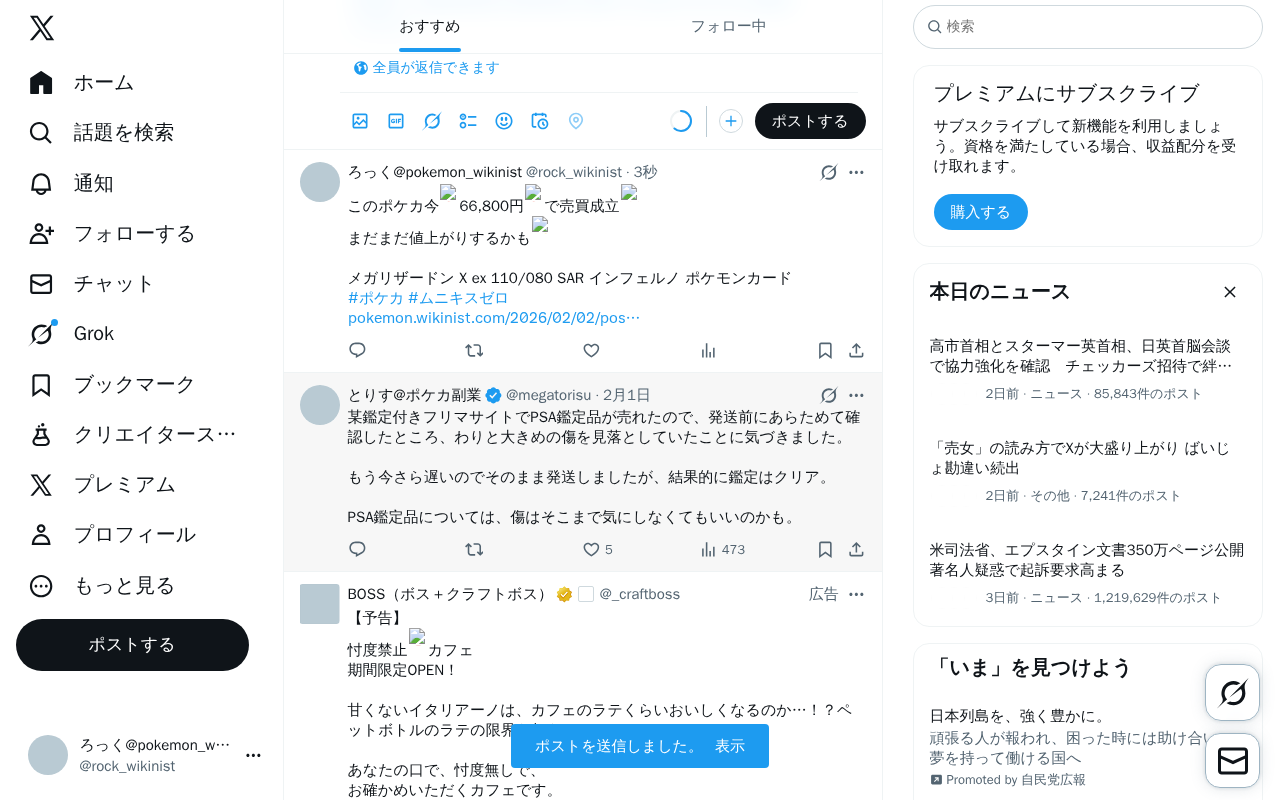
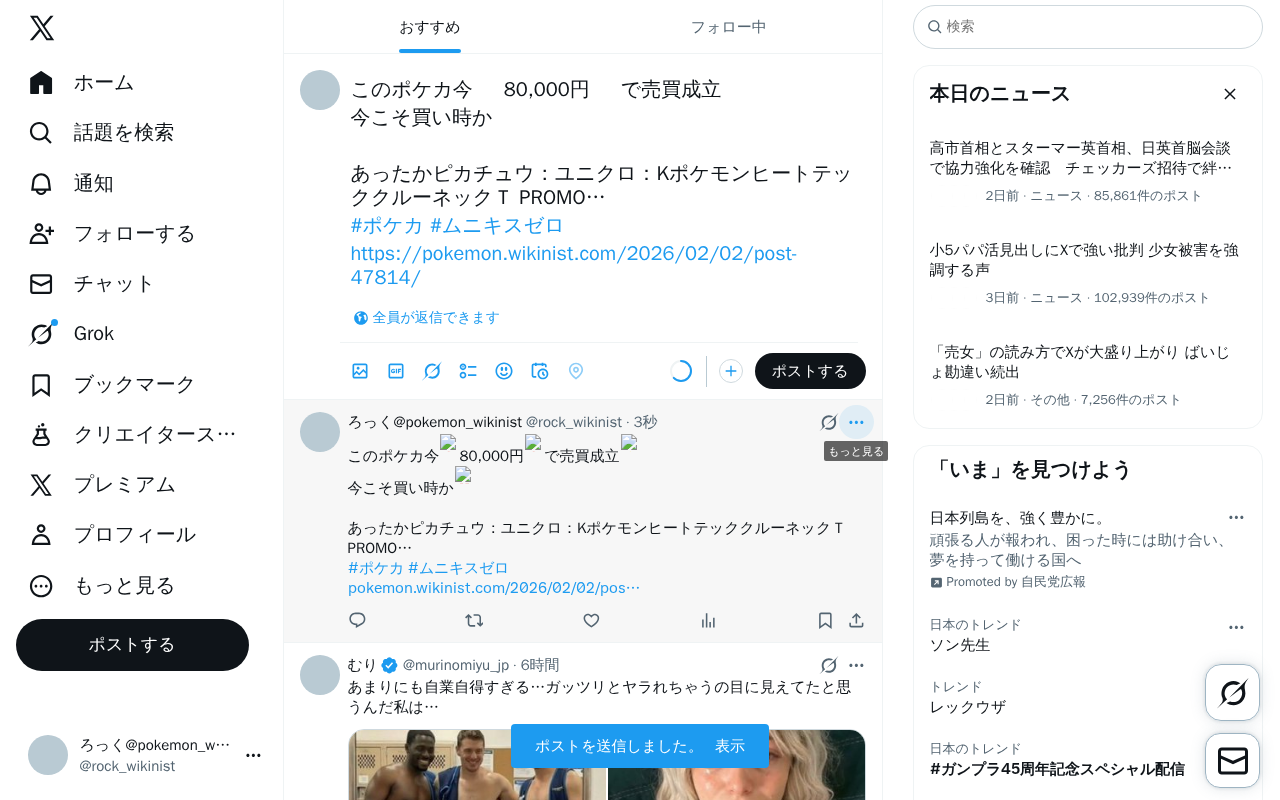
update system data

diff --git a/content/posts/test-pokemon-20260202-221335.md b/content/posts/test-pokemon-20260202-221335.md
@@ -1,0 +1,38 @@
+---
+title: "あったかピカチュウ：ユニクロ：KポケモンヒートテッククルーネックＴ PROMO…"
+date: 2026-02-02T22:13:35+09:00
+description: "🔥80,000円🔥 メルカリで「あったかピカチュウ：ユニクロ：KポケモンヒートテッククルーネックＴ PROMO…」が販売中！"
+amazon_url: "https://jp.mercari.com/item/m93169801969?afid=1391290753"
+robotsNoIndex: true
+categories: ["ポケモン"]
+tags: ["プロモ", "ピカチュウ", "5万円以上"]
+cover:
+  image: "https://static.mercdn.net/thumb/item/webp/m93169801969_1.jpg?1770036634"
+  hiddenInList: true
+  hiddenInSingle: true
+---
+
+<div class="image-and-buttons">
+    <div class="image-area" style="margin-bottom: 20px; text-align: center;">
+        <a href="https://jp.mercari.com/item/m93169801969?afid=1391290753" target="_blank" rel="nofollow sponsored noopener noreferrer">
+            <img src="https://static.mercdn.net/thumb/item/webp/m93169801969_1.jpg?1770036634" alt="80,000" style="max-width: 100%; border-radius: 8px; border: 1px solid #ddd;" />
+        </a>
+        <br><span style="font-size:1.5em;color:red;font-weight:bold;">🔥80,000円🔥</span>
+    </div>
+    <div class="link-buttons">
+        <a href="https://jp.mercari.com/item/m93169801969?afid=1391290753" target="_blank" rel="nofollow sponsored noopener noreferrer">
+            💎 商品状態を見る
+        </a>
+        <a href="https://jp.mercari.com/search?afid=1391290753&category_id=1289&keyword=%E3%81%82%E3%81%A3%E3%81%9F%E3%81%8B%E3%83%94%E3%82%AB%E3%83%81%E3%83%A5%E3%82%A6%EF%BC%9A%E3%83%A6%E3%83%8B%E3%82%AF%E3%83%AD%EF%BC%9AK%E3%83%9D%E3%82%B1%E3%83%A2%E3%83%B3%E3%83%92%E3%83%BC%E3%83%88%E3%83%86%E3%83%83%E3%82%AF%E3%82%AF%E3%83%AB%E3%83%BC%E3%83%8D%E3%83%83%E3%82%AF%EF%BC%B4%20PROMO%E2%80%A6" target="_blank" rel="nofollow sponsored noopener noreferrer">
+            🔍 類似商品を見る
+        </a>
+        <a href="https://jp.mercari.com/search?afid=1391290753&brand_id=&category_id=1289&color_id=&item_condition_id=&item_types=&keyword=%E3%81%82%E3%81%A3%E3%81%9F%E3%81%8B%E3%83%94%E3%82%AB%E3%83%81%E3%83%A5%E3%82%A6%EF%BC%9A%E3%83%A6%E3%83%8B%E3%82%AF%E3%83%AD%EF%BC%9AK%E3%83%9D%E3%82%B1%E3%83%A2%E3%83%B3%E3%83%92%E3%83%BC%E3%83%88%E3%83%86%E3%83%83%E3%82%AF%E3%82%AF%E3%83%AB%E3%83%BC%E3%83%8D%E3%83%83%E3%82%AF%EF%BC%B4%20PROMO%E2%80%A6&order=desc&shipping_method=&shipping_payer_id=&size_id=&sort=created_time&status=sold_out%2Ctrading" target="_blank" rel="nofollow sponsored noopener noreferrer">
+            📈 価格推移・履歴を見る
+        </a>
+    </div>
+</div>
+
+<p style="font-size:1.0em;color:#555;line-height:1.6;">
+「あったかピカチュウ：ユニクロ：KポケモンヒートテッククルーネックＴ PROMO…」はメルカリに出品されました！<br>
+最新のポケモン情報は当サイトで随時更新中です。
+</p>
